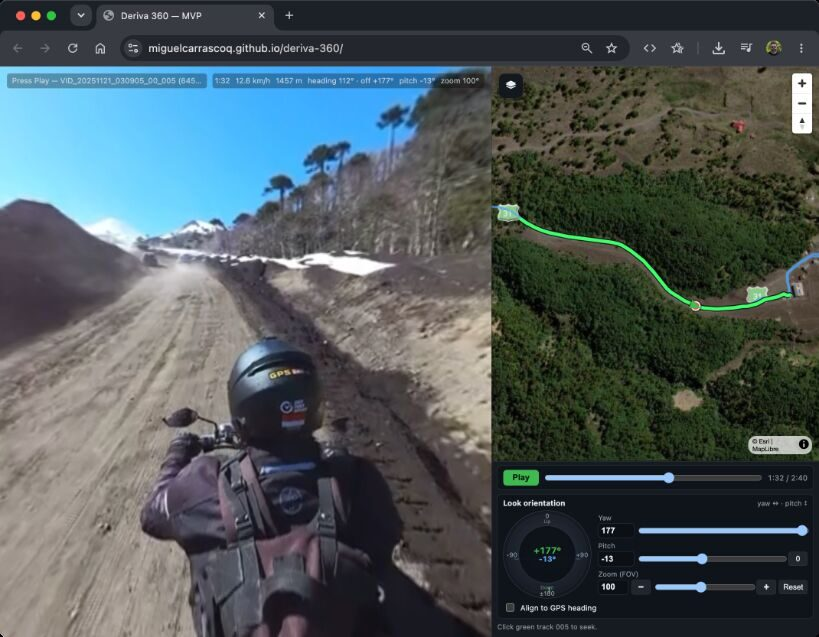
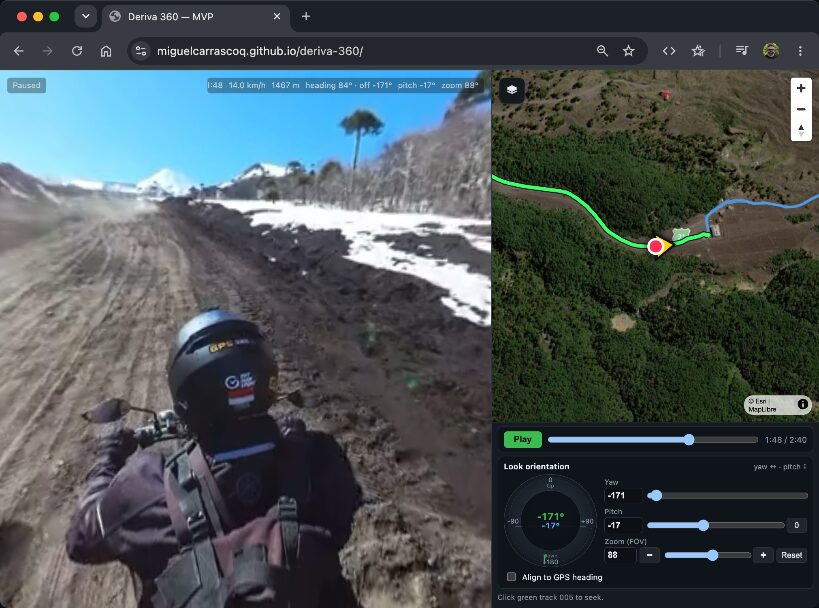
Update README to enhance project visibility and improve documentation
- Moved the live demo link to the top for better accessibility.
- Rearranged the preview image placement to enhance visual appeal.
- Updated README.md to provide clearer project information and improve overall presentation.

diff --git a/README.md b/README.md
@@ -2,11 +2,9 @@
 
 Feasibility viewer for geo-located equirectangular (360°) video synced to GPX tracks from Insta360.
 
+Live demo: https://miguelcarrascoq.github.io/deriva-360/
+
 ![Deriva 360 preview](./docs/preview.jpg)
-
-## Live demo
-
-**GitHub Pages:** [https://miguelcarrascoq.github.io/deriva-360/](https://miguelcarrascoq.github.io/deriva-360/)
 
 ## What it demonstrates
 
